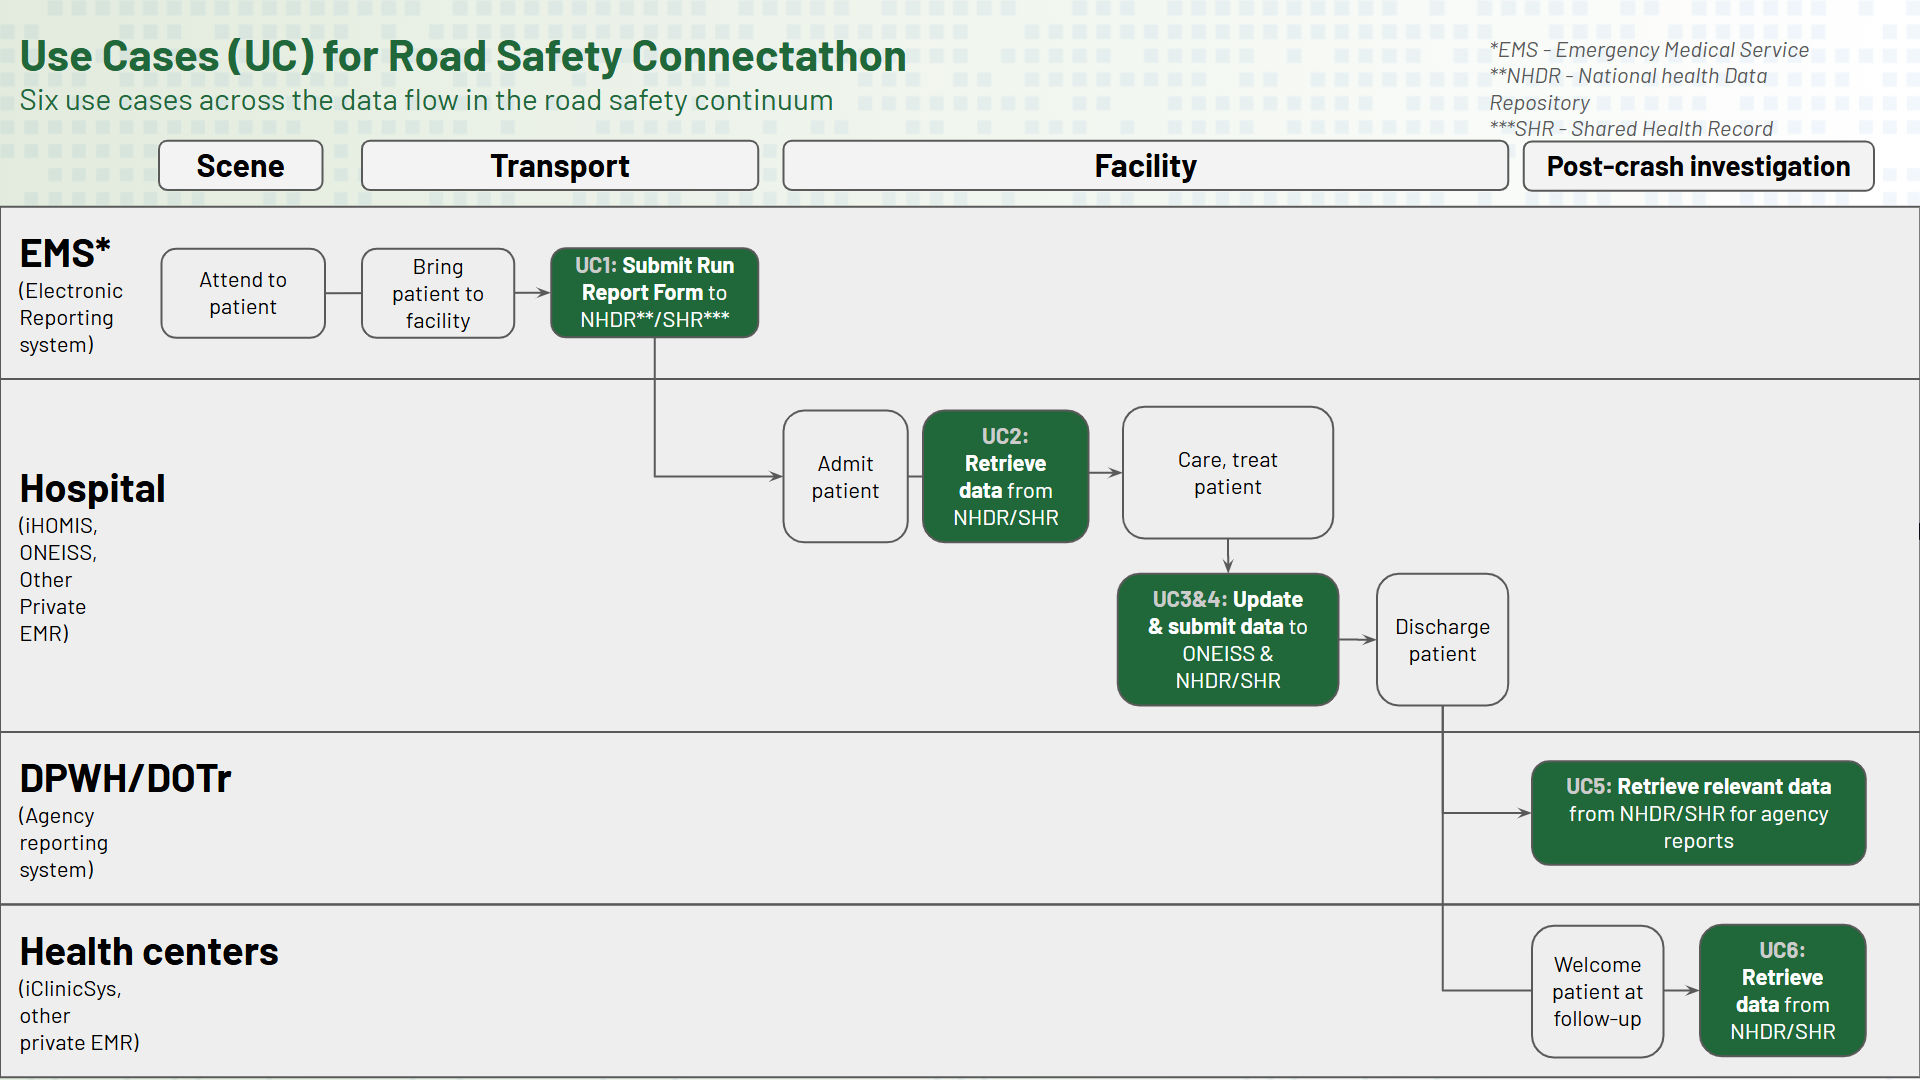
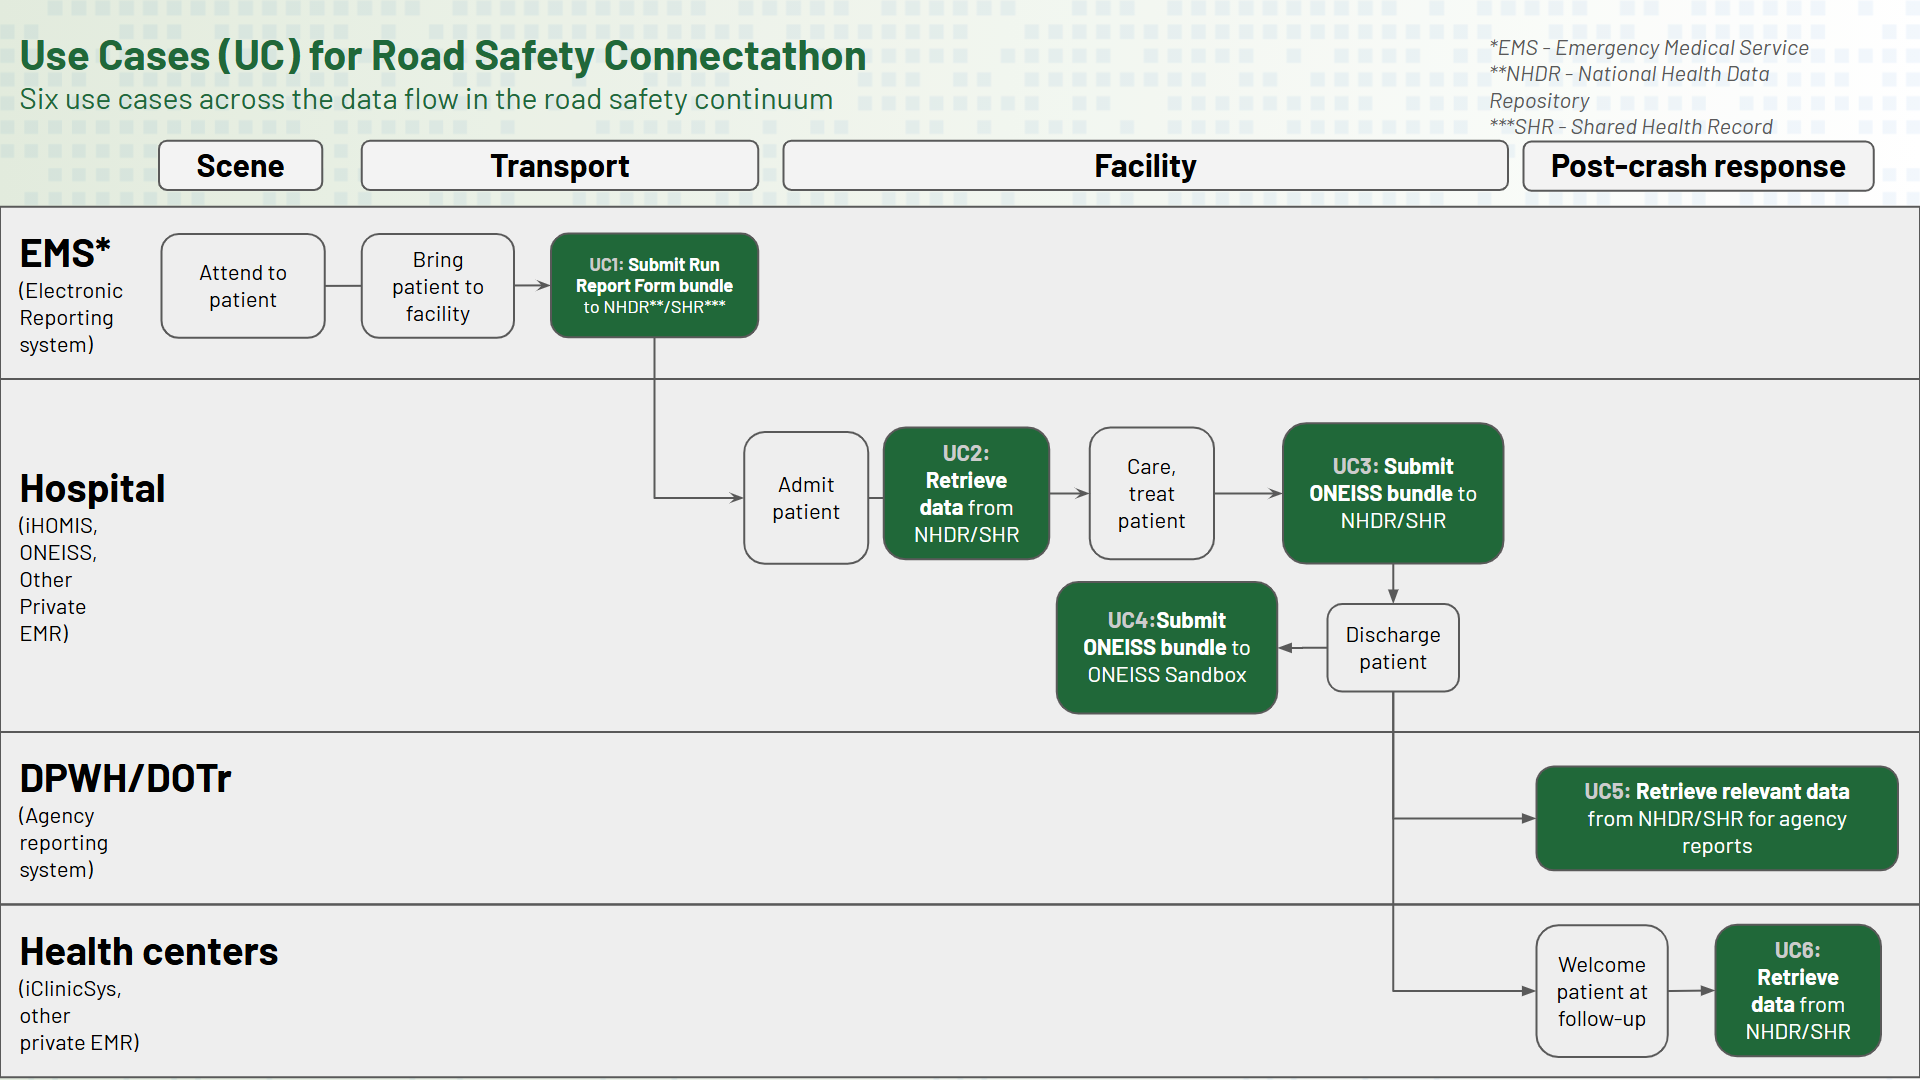
Updated diagram and use cases

diff --git a/README.md b/README.md
@@ -12,7 +12,7 @@ The general objective of this activity is to strengthen capacity for digital hea
 
 ## Important Information
 
-- [PH Road Safety Connectathon Program (November 17-21, 2025)](insertlinkhere)
+- [PH Road Safety Connectathon Program (November 17-21, 2025)](https://docs.google.com/document/d/17hV5Y1cuO2oAOhNZXDmwagq6KVonraf5uqqKZ0h4brU/)
 - [PH Road Safety Connectathon Logistic Note](insertlinkhere)
 - [Draft PH Road Safety FHIR Implementation Guide (IG)](https://build.fhir.org/ig/UPM-NTHC/PH-RoadSafetyIG/)
 - [PH Core FHIR Implementation Guide (IG)](https://build.fhir.org/ig/UP-Manila-SILab/ph-core/index.html) 
@@ -42,11 +42,12 @@ The general objective of this activity is to strengthen capacity for digital hea
 
 | **USE CASE**| **STATION** | **END USER** |
 |-----------------|-----------------|----------|
-| UC1: Submit Run Report Form to National Health Data Repository (NHDR)/Shared Health Record (SHR) **(POST)** | Transport | EMS |
-| UC2: Retrieve data from NHDR/SHR **(GET)** | Facility | Hospital |
-| UC3&4: Update & submit data to ONEISS & NHDR/SHR **(PUT & POST)** | Facility | Hospital
-| UC5: Retrieve relevant data from NHDR/SHR for agency reports **(GET)** | Post-crash investigation | DPWH/DOTr
-| UC6: Retrieve data from NHDR/SHR at patient follow-up **(GET)**| Post-crash investigation | Health centers
+| UC1: Users will submit *Run Report Form* bundle to National Health Data Repository (NHDR)/Shared Health Record (SHR). **(POST)** | Transport | EMS |
+| UC2: Users will retrieve data bundle from NHDR/SHR. **(GET)** | Facility | Hospital |
+| UC3: Users will submit *ONEISS bundle* to NHDR/SHR. **(POST)** | Facility | Hospital |
+| UC4: Submit *ONEISS bundle* to ONEISS Sandbox. **(POST)** | Facility | Hospital |
+| UC5: Users will retrieve relevant data from NHDR/SHR for agency reports. **(GET)** | Post-crash investigation | Government agency
+| UC6: Users will retrieve data from NHDR/SHR for continuity of care. **(GET)**| Post-crash investigation | Health center
 
 ## Tracks and Sample Data
 
